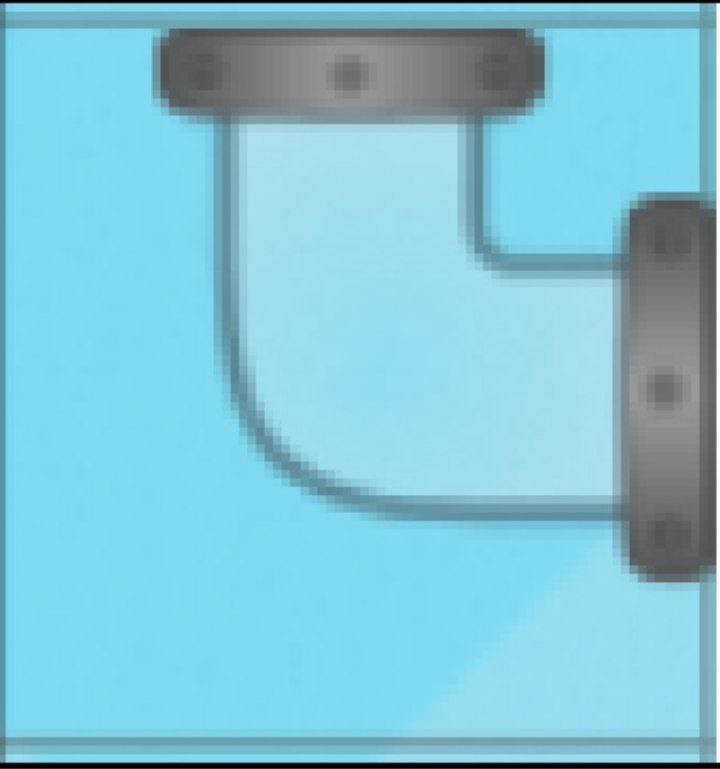
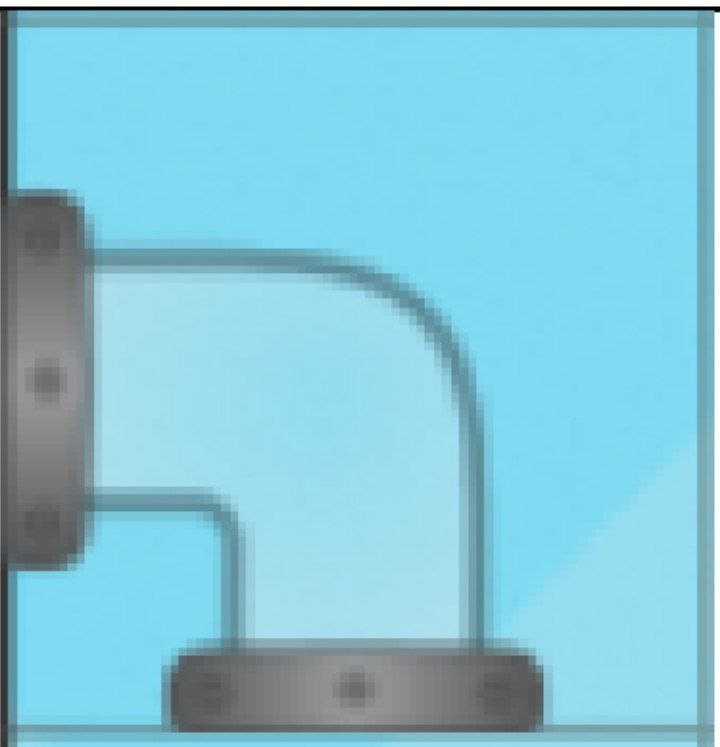
try to check a way

diff --git a/src/com/company/Cell/Cell.java b/src/com/company/Cell/Cell.java
@@ -5,6 +5,7 @@ import javafx.scene.image.ImageView;
 import javafx.scene.layout.StackPane;
 import javafx.scene.paint.Color;
 import javafx.scene.shape.Rectangle;
+import javafx.util.Pair;
 
 import java.io.FileInputStream;
 
@@ -14,14 +15,36 @@ public class Cell  extends StackPane {
     private Rectangle border;
     private final int cell_size = 100;
     private ImageView pipeImage = new ImageView();
+    private PipeType pipeType = new PipeType();
 
-    public class PipeType {
-        private int pipeType;
-        /*
-        Type 0 = empty cell , Type 1 = |  , Type 2 = |_ , Type 3 = start and finish
-        */
+    public void Cell(int row, int col, int type, int matter) throws Exception {
+        this.row = row;
+        this.col = col;
+        this.pipeType.setPipeType(type);
+        this.pipeType.setMatter(matter);
+        border = new Rectangle(cell_size, cell_size);
+        border.setFill(Color.LIGHTBLUE);
+        border.setStroke(Color.BLACK);
+        border.setStrokeWidth(1);
+        cell_shape();
+        this.getChildren().addAll(border, pipeImage);
+    }
+
+    public void cell_shape() throws Exception { //for picture of cell
+        if (pipeType.getPipeType() == 0) return;
+        Image image = new Image(new FileInputStream("C:\\\\Users\\\\HZD\\\\Desktop\\\\Game\\\\src\\\\com\\\\company\\\\image\\\\Type" + this.pipeType.getPipeType() + "\\\\" + this.pipeType.getMatter() + ".png"));
+        pipeImage.setImage(image);
+        pipeImage.setFitHeight(cell_size);
+        pipeImage.setFitWidth(cell_size);
+        pipeImage.setPreserveRatio(true);
+    }
+
+    public class PipeType { // ability's pipe
+        private int pipeType;//Type 0 = empty cell , Type 1 = |  , Type 2 = |_ , Type 3 = start , Type 4 = finish
         private int[] AllOfMatter = buildMatter();// the matter of pipe
-        private int matter;
+        private int matter;//the pipe matter at the moment
+        private int[] canConnect = build_connection();//build the  way of connect
+        public Pair<Integer , Integer>[] mustConnect;
 
         private int[] buildMatter() {
             switch (pipeType) {
@@ -40,7 +63,47 @@ public class Cell  extends StackPane {
             return AllOfMatter;
         }
 
-        public boolean Ability_to_turn() {
+        public boolean Ability_to_turn() { // if pipe can turn or not
+            if (pipeType == 0 || pipeType == 3) return false;
+            return true;
+        }
+
+        public int[] build_connection(){
+            if(Ability_to_connect()){
+                switch (this.pipeType){
+                    case 1:
+                        switch (this.matter){
+                            case 1:
+                                canConnect = new int[] {0 , 2};
+                                break;
+                            case 2:
+                                canConnect = new int[]{1 , 3};
+                            default:break;
+                        }
+                        break;
+                    case 2:
+                        switch (this.matter){
+                            case 1:
+                                canConnect = new int[] {0 , 1};
+                                break;
+                            case 2:
+                                canConnect = new int[] {1 , 2};
+                                break;
+                            case 3:
+                                canConnect = new int[] {2 , 3};
+                                break;
+                            case 4:
+                                canConnect = new int[] {3 , 0};
+                                break;
+                            default:break;
+                        }
+                    default:break;
+                }
+            }
+            return canConnect;
+        }
+
+        public boolean Ability_to_connect() { // if pipe can connect  with other's or not
             if (pipeType == 0 || pipeType == 3) return false;
             return true;
         }
@@ -53,39 +116,13 @@ public class Cell  extends StackPane {
             return pipeType;
         }
 
-        public void setMatter(int matter) throws Exception {
+        public void setMatter(int matter) throws Exception {//for turn pipe
             this.matter = matter;
             cell_shape();
-
         }
-
         public int getMatter() {
             return matter;
         }
-    }
-
-    private PipeType pipeType = new PipeType();
-
-    public void Cell(int row, int col, int type, int matter) throws Exception {
-        this.row = row;
-        this.col = col;
-        this.pipeType.setPipeType(type);
-        this.pipeType.setMatter(matter);
-        border = new Rectangle(cell_size, cell_size);
-        border.setFill(Color.LIGHTBLUE);
-        border.setStroke(Color.BLACK);
-        border.setStrokeWidth(1);
-        cell_shape();
-        this.getChildren().addAll(border, pipeImage);
-    }
-
-    public void cell_shape() throws Exception {
-        if (pipeType.getPipeType() == 0) return;
-        Image image = new Image(new FileInputStream("C:\\\\Users\\\\HZD\\\\Desktop\\\\Game\\\\src\\\\com\\\\company\\\\image\\\\Type" + this.pipeType.getPipeType() + "\\\\" + this.pipeType.getMatter() + ".png"));
-        pipeImage.setImage(image);
-        pipeImage.setFitHeight(cell_size);
-        pipeImage.setFitWidth(cell_size);
-        pipeImage.setPreserveRatio(true);
     }
 
     public PipeType getPipe(){

diff --git a/src/com/company/map/map.java b/src/com/company/map/map.java
@@ -28,6 +28,10 @@ public class map {
                 cells[row][col] = c;
             }
         }
+        cells[0][0].getPipe().setPipeType(3);
+        cells[0][0].getPipe().setMatter(1);
+        cells[map_size-1][map_size-1].getPipe().setPipeType(3);
+        cells[map_size-1][map_size-1].getPipe().setMatter(2);
     }
 
     public void updateGame(){
